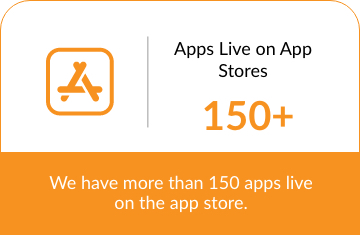
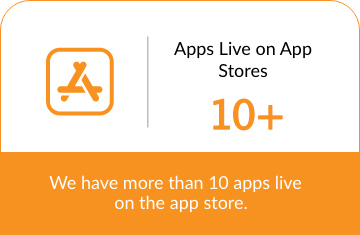
update

Changed region(s): [[0.55, 0.417, 0.825, 0.566], [0.6111, 0.7447, 0.8861, 0.834]]

diff --git a/other/viprabusiness/index.html b/other/viprabusiness/index.html
@@ -203,7 +203,7 @@ j=d.createElement(s),dl=l!='dataLayer'?'&l='+l:'';j.async=true;j.src=
 
                 <h3>Enterprise Software Development</h3>
 
-                <p>We have deployed several enterprise projects for Fortune 500 companies to highly scalled startups
+                <p>We have deployed several enterprise projects for Fortune 20 companies to highly scalled startups
 
                   based out at different parts of the Globe</p>
 
@@ -298,7 +298,7 @@ j=d.createElement(s),dl=l!='dataLayer'?'&l='+l:'';j.async=true;j.src=
 
           <p data-aos="fade-up" data-aos-duration="1000" data-aos-delay="500">Share your app idea, and we will get it
 
-            brilliantly executed! We have developed more than 100 apps successfully for our clients, spread across
+            brilliantly executed! We have developed more than 20 apps successfully for our clients, spread across
             different
 
             countries. Focusing on great backend support &nbsp; excellent UI/UX, we use our expertise in developing
@@ -311,7 +311,7 @@ j=d.createElement(s),dl=l!='dataLayer'?'&l='+l:'';j.async=true;j.src=
             change of time, it gives us immense pleasure to demonstrate our work done for our clients. We hold an
             exemplary
 
-            portfolio with over 1000+ client bases and have successfully executed their projects.
+            portfolio with over 100 client bases and have successfully executed their projects.
 
           </p>
 
@@ -1183,39 +1183,6 @@ j=d.createElement(s),dl=l!='dataLayer'?'&l='+l:'';j.async=true;j.src=
               <img data-src="./images/homepage1/fin/fin-9.jpg" class="img-responsive lazyload" alt="vipra-9"
                 data-aos="zoom-in-down">
 
-            </div>
-
-          </div>
-
-          <div class="row vipra-boxes-4">
-
-            <div class="col-md-3 text-center color-1" data-aos="zoom-in-down">
-
-              <h5>2M+</h5>
-
-              <h6>Hours of Experience</h6>
-
-            </div>
-
-            <div class="col-md-3 text-center color-2 dashline-1" data-aos="zoom-in-down">
-
-              <h5> 6+</h5>
-
-              <h6>Years in Business</h6>
-
-            </div>
-
-            <div class="col-md-3 text-center color-1 dashline-2" data-aos="zoom-in-down">
-
-              <h5>600+</h5>
-
-              <h6>Projects</h6>
-
-            </div>
-
-            <div class="col-md-3 text-center color-2" data-aos="zoom-in-down">
-              <h5>95% </h5>
-              <h6>Retention</h6>
             </div>
 
           </div>
